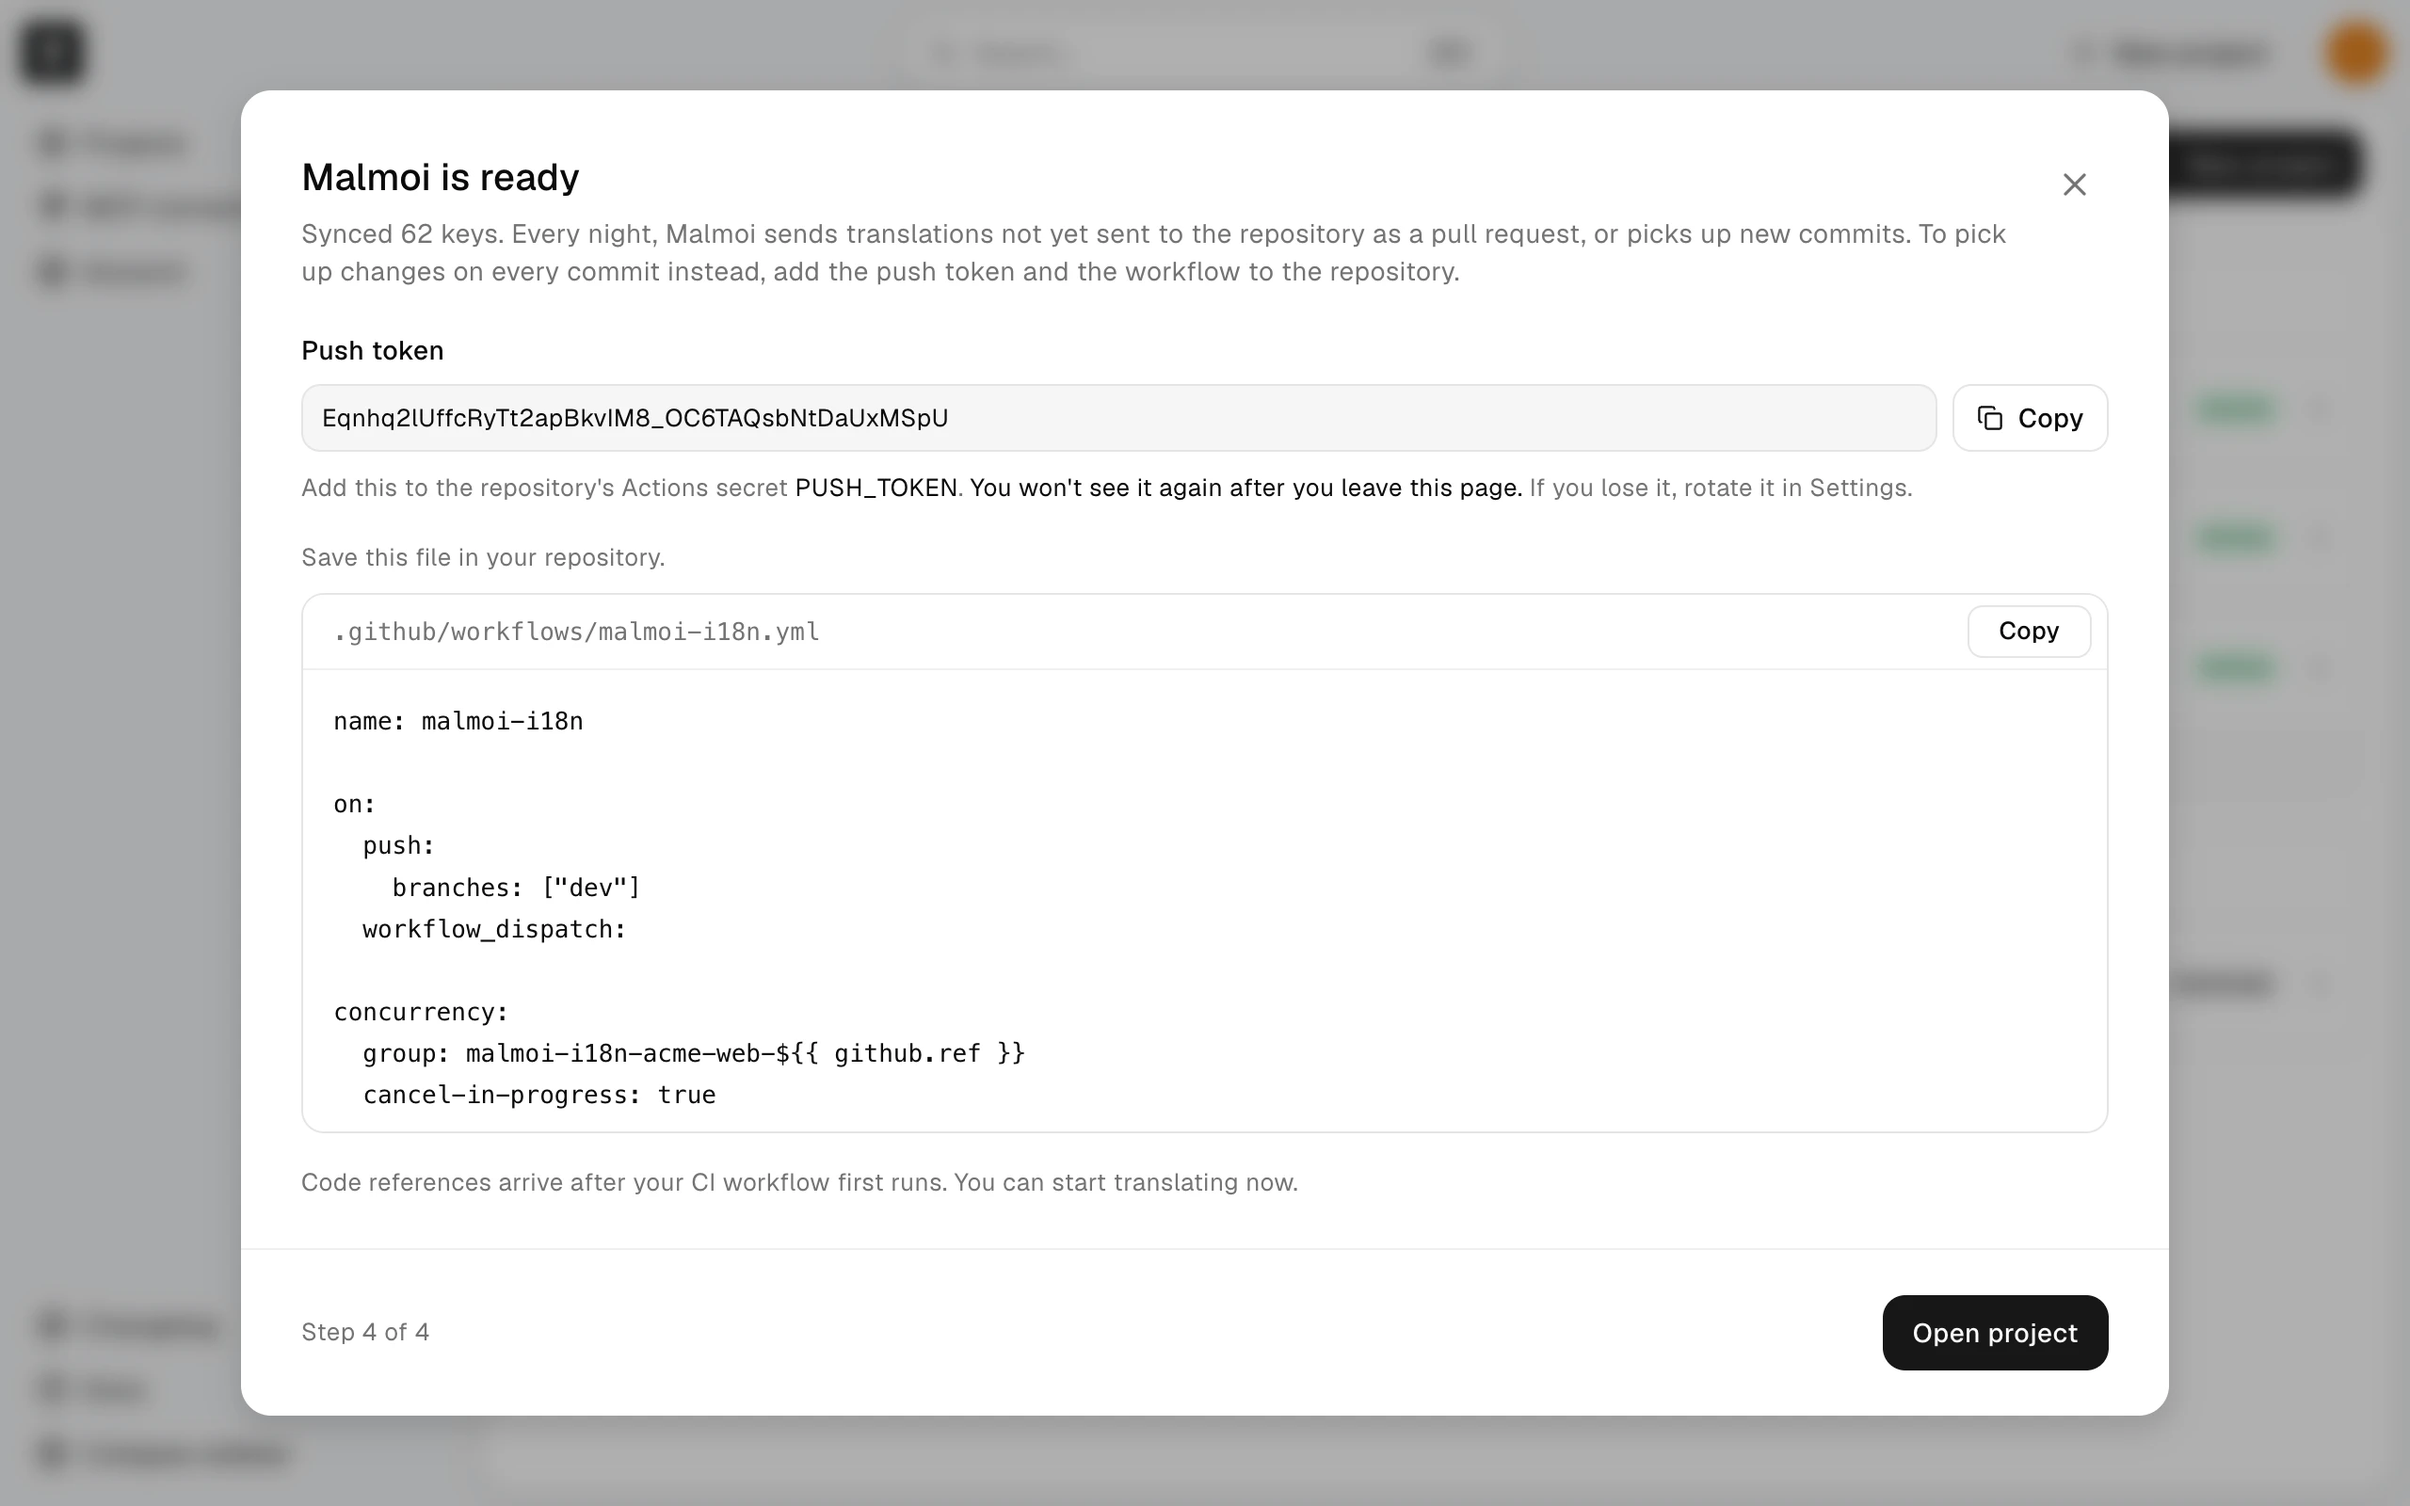
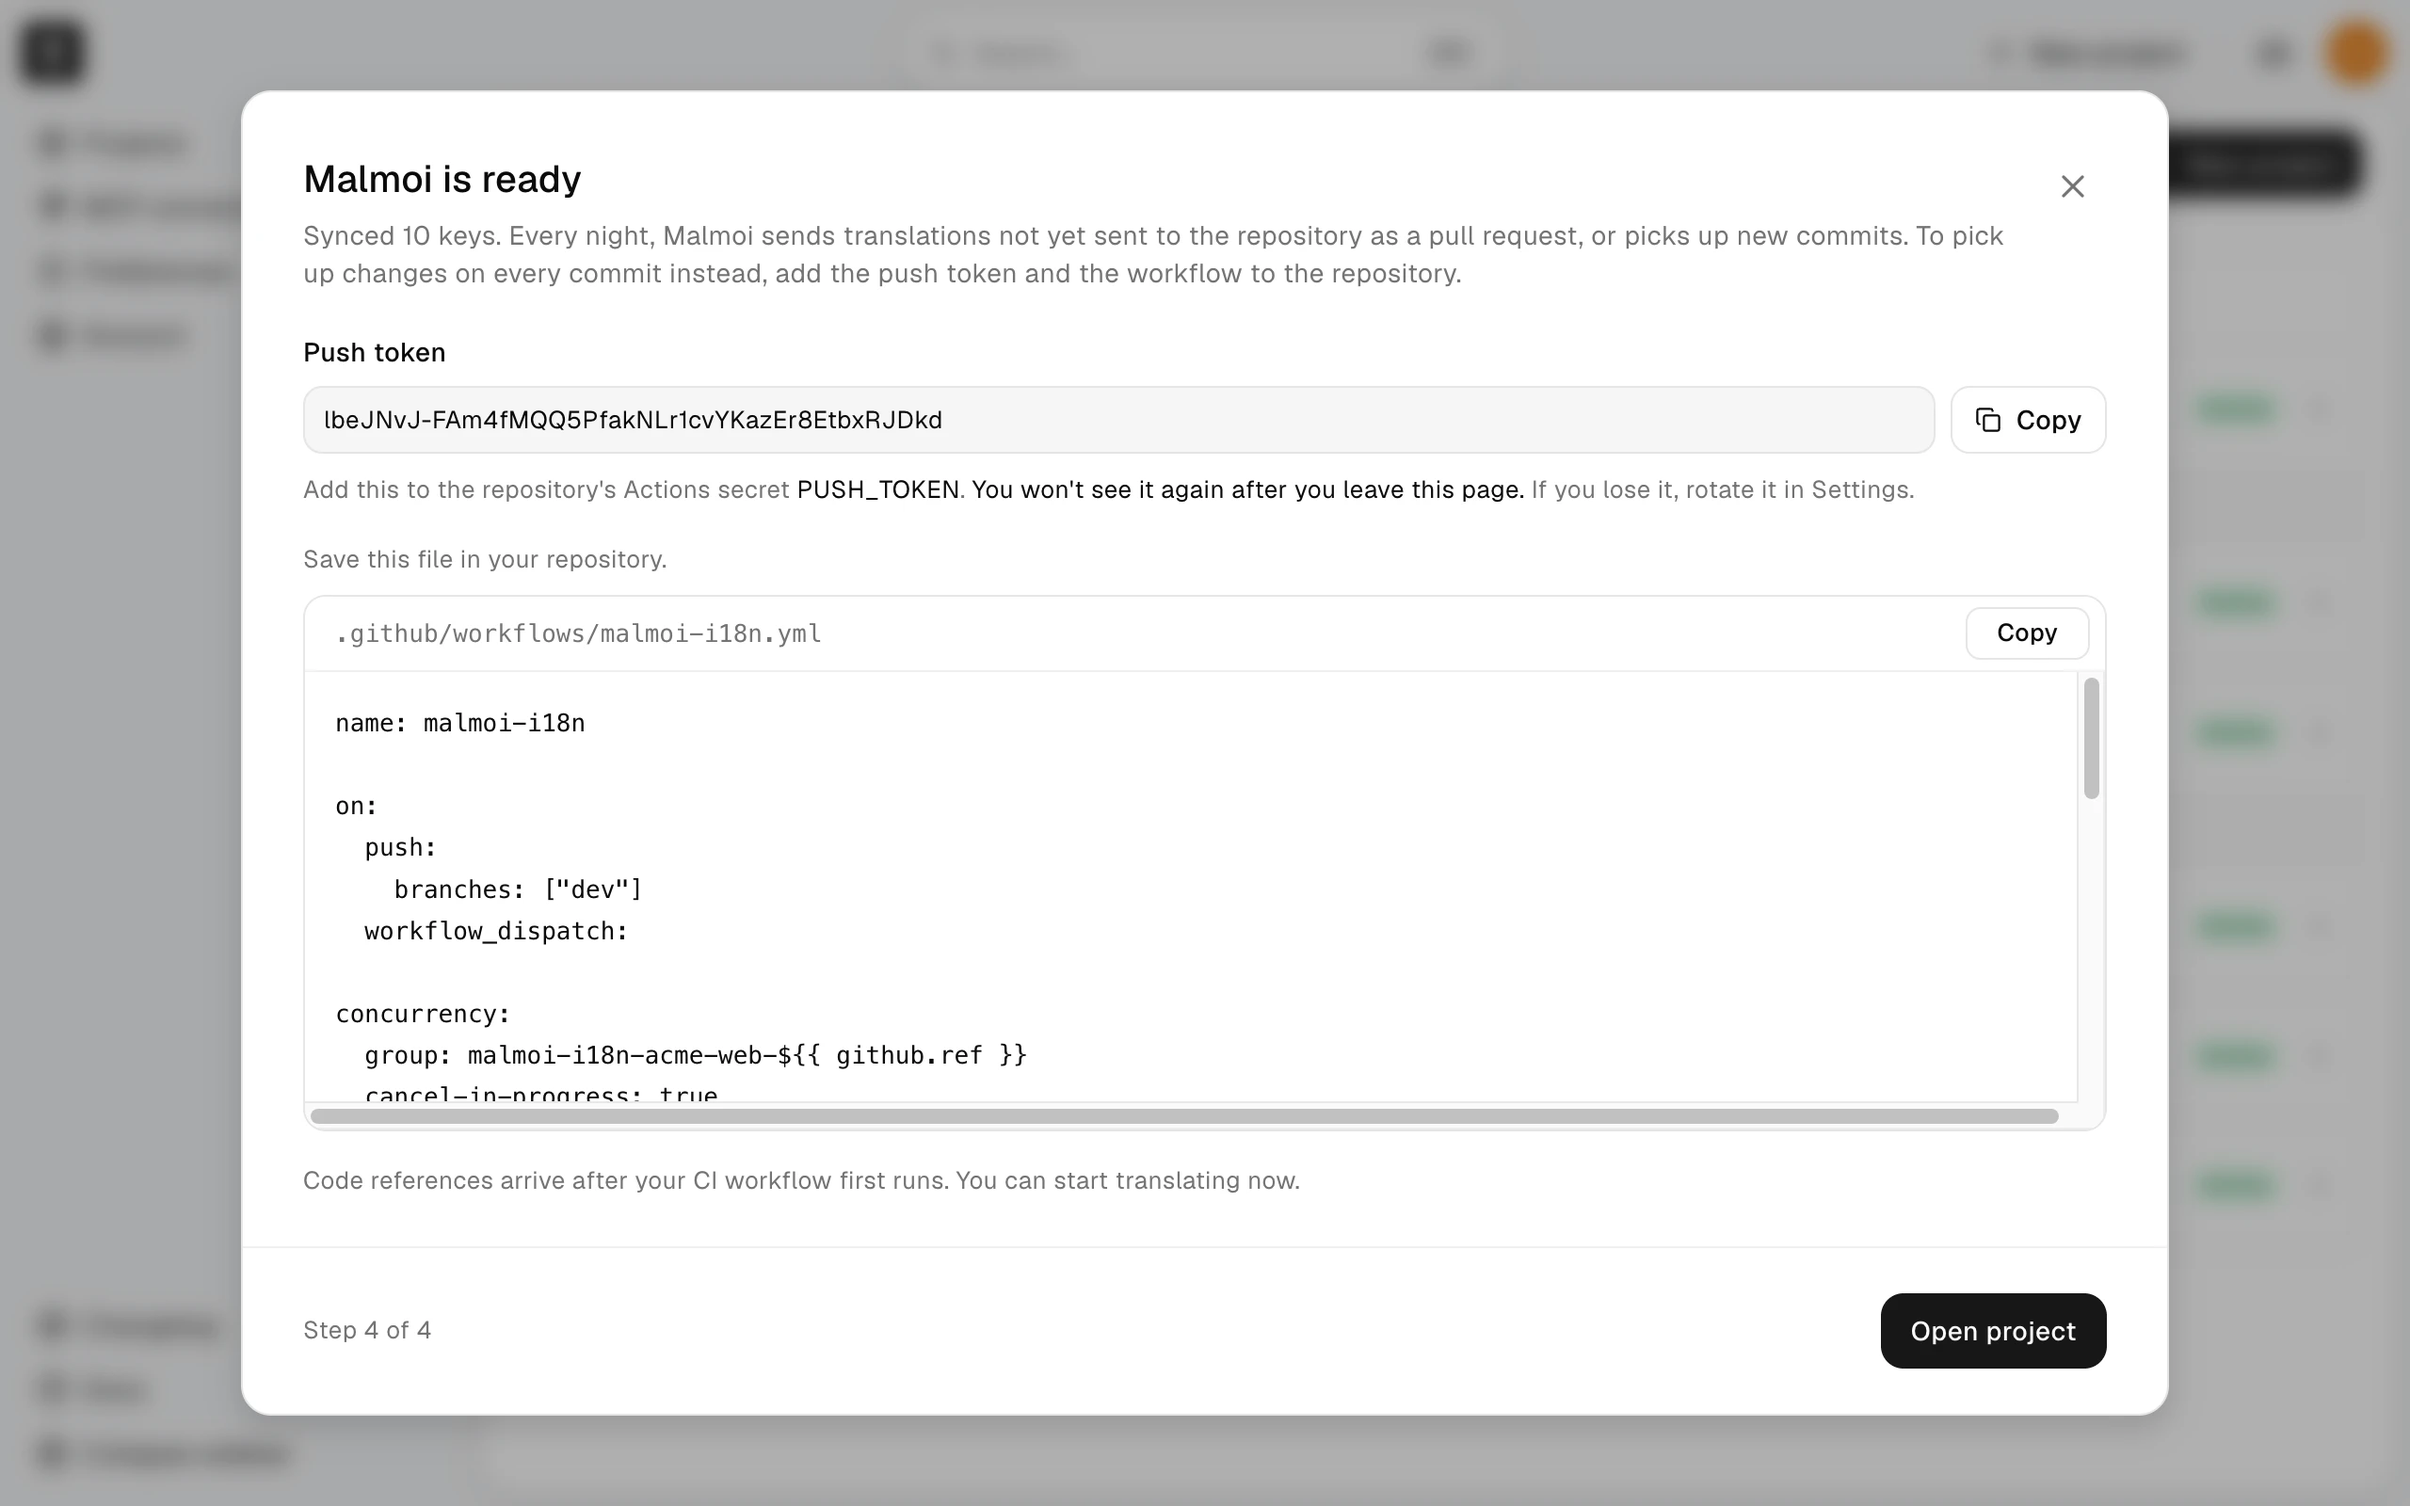
docs(guide): retake the onboarding ready screenshot

diff --git a/guide/SHOOTING.md b/guide/SHOOTING.md
@@ -146,7 +146,7 @@
 | /guide/create-repository.webp | components/onboarding/new-project.tsx, components/onboarding/steps/repo.tsx | 818b43f99d4ed1ae62c077fc826357beab3eb453, b6c6f16b2e7251ad0471127c7cce38edda915ffe | 2560x1600 |
 | /guide/create-files.webp | components/onboarding/new-project.tsx, components/onboarding/steps/files.tsx | 818b43f99d4ed1ae62c077fc826357beab3eb453, ff459d94bea6ac9e53516e39b98c4235cbc8a6d4 | 2560x1600 |
 | /guide/create-name.webp | components/onboarding/new-project.tsx, components/onboarding/steps/naming.tsx | 818b43f99d4ed1ae62c077fc826357beab3eb453, 2247aa4632aab2d8985866564c7a67625a0f65d7 | 2560x1600 |
-| /guide/create-ready.webp | components/onboarding/new-project.tsx, components/onboarding/steps/result.tsx, components/onboarding/workflow-block.tsx | 111ce7bcd111dc95367fa5984f528d9ff2f7a49f, 0303dfc89c884f37a886a0040c5e01c626e4b116, 092b2bc9a2f640b47cde917eba8198f77b2b8534 | 2560x1600 |
+| /guide/create-ready.webp | components/onboarding/new-project.tsx, components/onboarding/steps/result.tsx, components/onboarding/workflow-block.tsx | 818b43f99d4ed1ae62c077fc826357beab3eb453, 1d97cf223710bc767caf08f18257afe6f43265b3, 13a0bbaf8bae47bc0995b3ba5710b84ecdb4a3cf | 2560x1600 |
 
 - ⚠ **셸이 컷에 들어간 뒤로 LNB·패널 머리·카드 머리(`components/shell/**`·`components/ui/panel-card.tsx` 등)의 변경도 모든 컷을 낡게 한다** — 소스로 올리면 신호가 죽으므로(`messages/en.tsx`와 같은 이유) 올리지 않는다. 셸을 바꿨으면 컷 전체를 손으로 다시 본다.
 
@@ -194,3 +194,4 @@
 - 2026-10-05 ui-locales H3 — `language.md`(세 언어) 컷 둘 **추가**: `preferences-language`(OWNER, `/preferences` en · English) · `footer-language-menu`(비로그인 `/docs`, 푸터 메뉴를 클릭으로 열어 포커스 링 없음). 세 언어 원고가 같은 경로를 쓰고 alt·title만 언어별이다 — ⚠ en·es alt에 endonym `한국어`를 쓰면 `no-korean-ui`가 red라 `Korean`·`coreano`로 적었다. 마스킹은 셸 우상단 아바타 글자 `S`→`A` 하나(`SinhyeokKang`과 `Alex Kim`의 `hueOf`가 같은 amber라 색은 그대로). 셋업·DB 쓰기 없음(촬영 전 계정 언어 en). 기존 stale 컷(셸에 `Preferences` 항목·푸터 스위처가 선 것)은 spec 비목표라 그대로 둔다.
 - 2026-10-05 user-timezone Q1 — `preferences-language` **재촬영**: Language 아래 Time zone 카드(Select `UTC` · 도움말 · `Now:` 미리보기)가 섰다. 계정 시간대는 기본(UTC, `User.timeZone` null)이고 화면 언어 en이다 — 미리보기 시각은 촬영 순간의 UTC다. 카드 둘이 같은 조립(`preference-select-card.tsx`)이고 Time zone은 `time-zone-card.tsx`가 그리므로 둘을 매핑 소스에 더했다. 마스킹은 전과 같이 아바타 글자 `S`→`A` 하나. 셋업·DB 쓰기 없음. 같은 `guide:check`의 나머지 stale(25컷 남짓 — 셸·다른 기능 변경)은 이번 범위 밖이라 그대로 둔다.
 - 2026-10-05 attention-inbox Q3(셸 헤더에 Inbox 트리거 — 편집 셸과 로그인한 공개 셸 헤더) — **셸·헤더가 든 컷 전부 + `guide:check` stale 재촬영(사용자 결정)**: `public/guide/` 27장(셸 컷 24 + `oauth-consent` · `accept-invitation` · `footer-language-menu` — 셸은 없지만 stale) + README 두 장(`hero` · `logs`). **추가 1**: `inbox-open`(`translate/edit.md#inbox`, EDITOR) — 세 언어 원고에 같은 경로로 참조를 넣었다. **안 찍은 것**: `create-ready`(④ — 일회용 프로젝트를 만들어야만 닿는데 이번 브리프가 프로젝트 생성·삭제를 금했다. 매핑 SHA를 그대로 둬 `guide:check`에 계속 뜬다) · `push-token-secret` · `actions-policy`(GitHub 화면, stale 아님). 매핑 소스 추가: `preferences-language`에 `theme-card.tsx`(Theme 카드가 컷에 섰는데 `guide:check`가 못 잡았다). 셋업: OWNER `checkout.submit` de `Jetzt bestellen` 저장 → `home-paused`(Sync 탭)·`sync-discard`(Cancel)·`revert-confirm` → 실제 Revert(켜져 있었다) · EDITOR `checkout.submit` fr `Passer la commande` → `home-publish`·`publish-preview`(PR 안 엶) → `inbox-open` → 빈 값 재저장 → Publish(`Nothing differs`) → `publish-result` · MCP 연결 둘은 가짜 `OAuthConnection` 행(id `q3-gs-*`) → 촬영 뒤 삭제(0→0) · `oauth-consent`는 claude.ai CIMD authorize 요청(Authorize 안 누름) · ①–③은 운영자 면제로 `/projects/new`에 바로 들어갔고 Create project는 누르지 않았다 · 초대 1건을 `i18n-order-check`(EDITOR 비멤버 — `acme-web`은 이미 멤버라 `already-member` 화면이 된다)에 심어 `accept-invitation`을 찍고 수락 없이 id로 지웠다(카드가 `acme-mobile`) · `inbox-open`은 `bugshot-i18n-test-qa`의 `_locales`에 `import-failed`(now) · `namespaces`에 `partial-import`(2h 전)를 심어 찍고 NULL로 되돌렸다. 촬영 계정 화면 언어: OWNER 계정 `uiLocale`이 `ko`였다 → 촬영 동안 `en` → `ko`로 복원(EDITOR는 null = en). 전후 대조: 미전달 0→0(다섯 프로젝트), 초대·OAuth 연결·API 토큰 수 그대로, `TranslationSurface` 실패 표시 전부 NULL, `User.attentionSeenAt` 둘 다 NULL, `acme-web` 사건 45→50(편집·Revert · 편집·재저장·Publish), 나머지 프로젝트 사건 그대로, GitHub 쓰기 없음. ⚠ **새로 밟은 것**: ① OWNER·EDITOR의 가려진 주소 앞부분이 같다 — 일반 치환이 둘 다 같은 값으로 바꾸므로 Members 행 이름으로 갈라 `alex.k***@` · `jordan***@`를 넣는다. 계정 화면의 이메일 칸은 `<input>` value라 정규식 치환을 input에도 건다. ② `inbox-open`의 그룹 이름은 마스킹 표대로면 `acme-web`이 되어 `Acme web` 그룹과 겹친다 — ①의 선례처럼 이 컷에서만 `bugshot-i18n-test-qa`를 `extension`으로 바꾼다. 그룹은 최신 항목 순이라 실패 시각을 미전송 편집보다 늦게 둬야 두 그룹이 한 화면에 든다. 목록을 열면 `attentionSeenAt`이 기록돼 다시 열 때 안 읽은 점이 사라진다 — 재촬영 전 NULL로 되돌린다. ③ 다음 단계 버튼이 직전 클릭 자리에 서면 hover가 남는다(①→② Next, ②→③ Create project) — 마우스를 다른 곳에 한 번 옮긴 뒤 구석으로 보낸다. ④ URL로 연 Logs 사건 Dialog는 첫 버튼(`Copy reference`)에 focus-visible 링이 선다 — `activeElement.blur()` 뒤 찍는다. ⑤ `ego-browser nodejs -e '…'` 한 번이 끝나지 않았다 — 스크립트는 파일을 stdin으로 넘긴다. ⑥ Logs 시각에 `UTC` 라벨이 붙었다(user-timezone) — README `logs` alt의 "grouped by UTC date"는 날짜 머리가 컷 밖이라 보이지 않는다(README 문구는 고치지 않았다).
+- 2026-10-05 attention-inbox Q4 — `create-ready` **재촬영**(④ `Malmoi is ready`, 2560×1600 · 93,352바이트 — 매핑 치수 그대로). 일회용 프로젝트를 UI로 만들었다(`SinhyeokKang/i18n-format-check` · dev · `locales/{locale}.yml` 한 세트 — 후보 목록에서 `i18n/emails`가 기본 체크돼 있어 해제했다 · Name `Acme web` · Address `q4-shot-tmp` · base English). 토큰 input은 43자 가짜 값으로 바꾸고 `value` 속성도 같이 바꿨다(속성이 실제 값을 들고 있어 `outerHTML`에 남는다) · `api-url:` 줄은 이제 하나다(1줄 제거). 워크플로 `group:`에 일회용 주소가 실려 `acme-web`으로 치환했다. 셸은 Dim 뒤라 흐려 읽히지 않지만 마스킹 표 + 소유자 `acme/` · 아바타 `AK`를 걸었다. 촬영 계정 화면 언어가 `ko`여서 `/preferences`에서 `en`으로 바꿔 찍고 `ko`로 복원했다. 캡처 뒤 id(`c4cb4055-…`)로 지웠다: `ProjectEvent` 3 · `Translation` 28 · `StringKey` 10 · `Locale` 3 · `ProjectMember` 1 · `TranslationSurface` 1 · `Project` 1(나머지 0). 전후 대조: 상주 다섯 프로젝트의 사건·키·번역 수가 그대로다. 매핑 SHA 갱신. 브랜치 정리는 없다(보관·복원 없음 — 운영자 면제).
